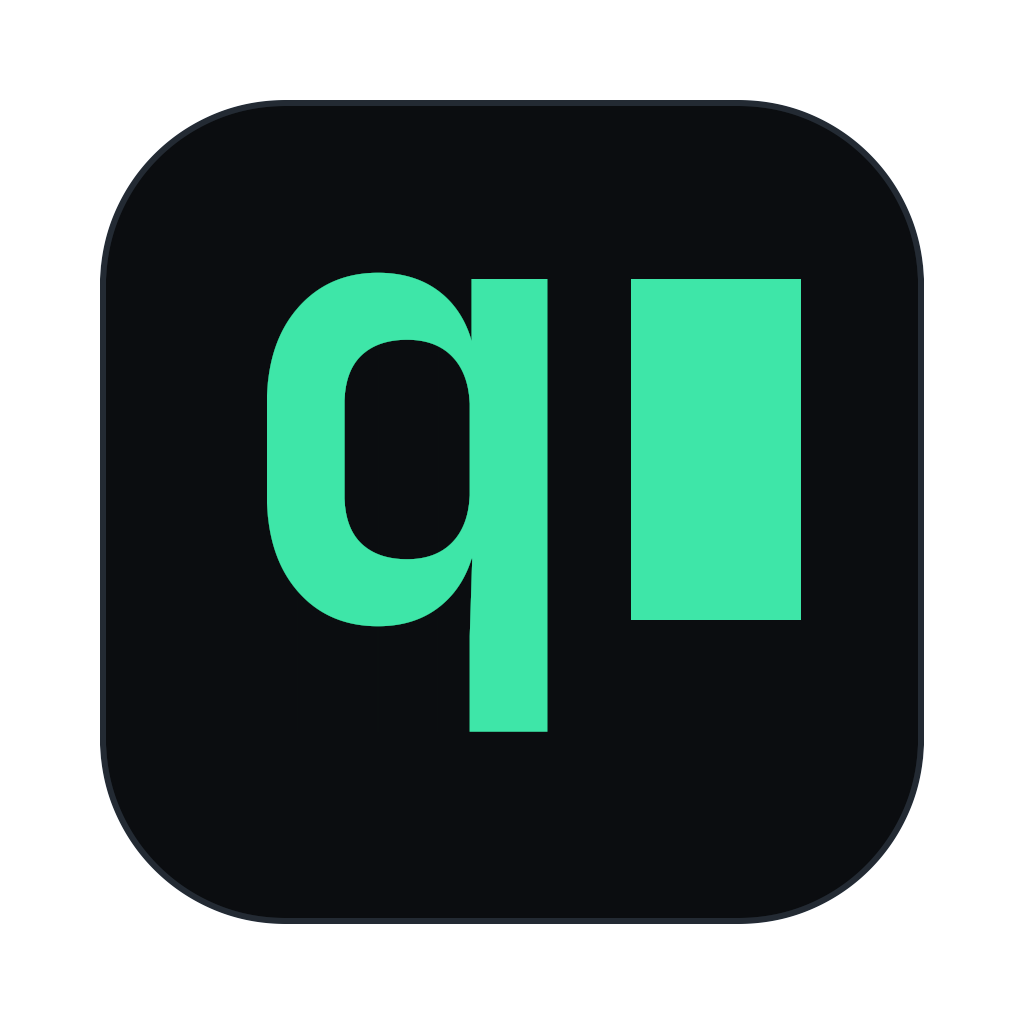
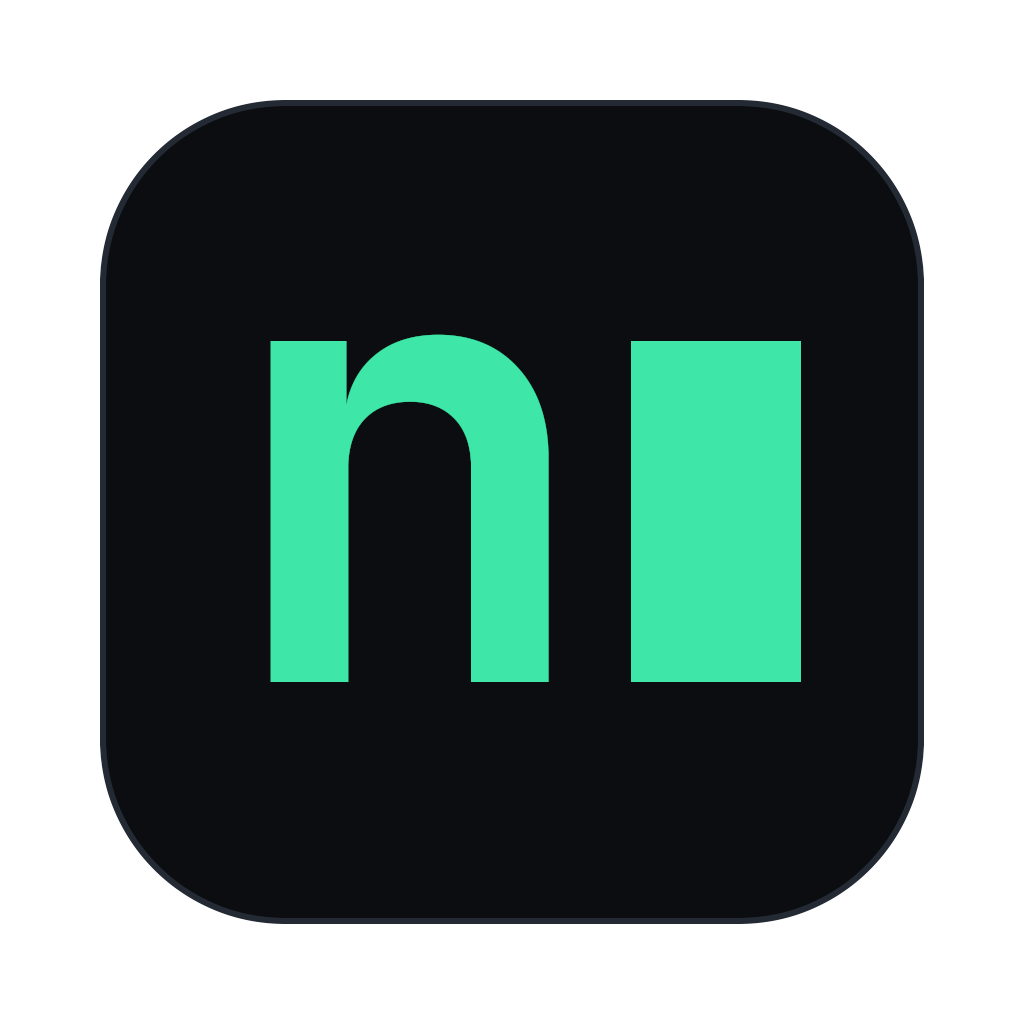
Rename the editor to nib
quod was hard to type and remember. The module, binary, app, release
files, icon and README now use nib, and the last session moves to the
new config folder on first start.

diff --git a/render_test.go b/render_test.go
@@ -15,15 +15,15 @@ import (
 	"gioui.org/unit"
 )
 
-// TestRender draws the editor offscreen. Set QUOD_SHOT=out.png to save it,
-// QUOD_FILE to pick the file or folder and QUOD_LINE to put the cursor on a
-// line. QUOD_FINDER=query opens the file finder, QUOD_INFO=1 the properties,
-// QUOD_GREP=query the folder search and QUOD_REPLACE=old:new the replace
+// TestRender draws the editor offscreen. Set NIB_SHOT=out.png to save it,
+// NIB_FILE to pick the file or folder and NIB_LINE to put the cursor on a
+// line. NIB_FINDER=query opens the file finder, NIB_INFO=1 the properties,
+// NIB_GREP=query the folder search and NIB_REPLACE=old:new the replace
 // prompt.
 func TestRender(t *testing.T) {
-	out := os.Getenv("QUOD_SHOT")
+	out := os.Getenv("NIB_SHOT")
 	if out == "" {
-		t.Skip("set QUOD_SHOT to render a screenshot")
+		t.Skip("set NIB_SHOT to render a screenshot")
 	}
 	const w, h = 1400, 900
 	win, err := headless.NewWindow(w, h)
@@ -32,11 +32,11 @@ func TestRender(t *testing.T) {
 	}
 	defer win.Release()
 
-	e := NewEditor(orDefault(os.Getenv("QUOD_FILE"), "editor.go"))
+	e := NewEditor(orDefault(os.Getenv("NIB_FILE"), "editor.go"))
 	e.focused = true
 	e.cursor = Pos{98, 12}
 	e.anchor = Pos{96, 2}
-	if n, err := strconv.Atoi(os.Getenv("QUOD_LINE")); err == nil {
+	if n, err := strconv.Atoi(os.Getenv("NIB_LINE")); err == nil {
 		e.cursor, e.anchor = Pos{n - 1, 0}, Pos{n - 1, 0}
 	}
 	e.followCursor = true
@@ -56,7 +56,7 @@ func TestRender(t *testing.T) {
 		e.Layout(gtx)
 		t.Logf("layout: %v", time.Since(start))
 	}
-	if q, ok := os.LookupEnv("QUOD_FINDER"); ok {
+	if q, ok := os.LookupEnv("NIB_FINDER"); ok {
 		e.openFinder()
 		for {
 			if _, walking := e.finder.poll(); !walking {
@@ -68,18 +68,18 @@ func TestRender(t *testing.T) {
 		ops.Reset()
 		e.Layout(gtx)
 	}
-	if os.Getenv("QUOD_INFO") != "" {
+	if os.Getenv("NIB_INFO") != "" {
 		e.info = true
 		ops.Reset()
 		e.Layout(gtx)
 	}
-	if os.Getenv("QUOD_FIND") != "" {
+	if os.Getenv("NIB_FIND") != "" {
 		e.openPrompt(promptFind, "")
-		e.setInput(os.Getenv("QUOD_FIND"))
+		e.setInput(os.Getenv("NIB_FIND"))
 		ops.Reset()
 		e.Layout(gtx)
 	}
-	if q, ok := os.LookupEnv("QUOD_GREP"); ok {
+	if q, ok := os.LookupEnv("NIB_GREP"); ok {
 		e.openGrep()
 		e.setInput(q)
 		for {
@@ -91,7 +91,7 @@ func TestRender(t *testing.T) {
 		ops.Reset()
 		e.Layout(gtx)
 	}
-	if r := os.Getenv("QUOD_REPLACE"); r != "" {
+	if r := os.Getenv("NIB_REPLACE"); r != "" {
 		q, with, _ := strings.Cut(r, ":")
 		e.openReplace()
 		e.setInput(q)

diff --git a/icon_test.go b/icon_test.go
@@ -17,11 +17,11 @@ import (
 	"gioui.org/widget"
 )
 
-// TestIcon draws the app icon. Set QUOD_ICON=appicon.png to write it.
+// TestIcon draws the app icon. Set NIB_ICON=appicon.png to write it.
 func TestIcon(t *testing.T) {
-	out := os.Getenv("QUOD_ICON")
+	out := os.Getenv("NIB_ICON")
 	if out == "" {
-		t.Skip("set QUOD_ICON to draw the icon")
+		t.Skip("set NIB_ICON to draw the icon")
 	}
 	const size = 1024
 	win, err := headless.NewWindow(size, size)
@@ -42,7 +42,7 @@ func TestIcon(t *testing.T) {
 	paint.FillShape(gtx.Ops, rgb(0x232a33), clip.UniformRRect(body, radius).Op(gtx.Ops))
 	paint.FillShape(gtx.Ops, colBg, clip.UniformRRect(body.Inset(6), radius-6).Op(gtx.Ops))
 
-	// A bold "q" and a block cursor after it.
+	// A bold "n" and a block cursor after it.
 	shaper := text.NewShaper(text.NoSystemFonts(), text.WithCollection(fontCollection()))
 	f := font.Font{Typeface: typeface, Weight: font.Bold}
 	m := op.Record(gtx.Ops)
@@ -51,12 +51,12 @@ func TestIcon(t *testing.T) {
 	g := gtx
 	g.Constraints = layout.Constraints{Max: image.Pt(size, size)}
 	m = op.Record(gtx.Ops)
-	dims := widget.Label{MaxLines: 1}.Layout(g, shaper, f, 620, "q", col)
+	dims := widget.Label{MaxLines: 1}.Layout(g, shaper, f, 620, "n", col)
 	call := m.Stop()
-	// Center the mark from the top of the "q" to the end of its tail; the
-	// cursor runs from the x-height to the baseline.
-	const xHeight, descent, curW, gap = 0.55 * 620, 0.2 * 620, 170, 36
-	base := size/2 + int(xHeight-descent)/2
+	// Center the mark between the x-height and the baseline, where the
+	// cursor runs too.
+	const xHeight, curW, gap = 0.55 * 620, 170, 36
+	base := size/2 + int(xHeight)/2
 	x := (size - dims.Size.X - gap - curW) / 2
 	st := op.Offset(image.Pt(x, base-(dims.Size.Y-dims.Baseline))).Push(gtx.Ops)
 	call.Add(gtx.Ops)

diff --git a/quit_darwin.go b/quit_darwin.go
@@ -5,21 +5,21 @@ package main
 #import <AppKit/AppKit.h>
 #include <objc/runtime.h>
 
-extern int quodMayQuit(void);
+extern int nibMayQuit(void);
 
-static NSApplicationTerminateReply quodShouldTerminate(id self, SEL _cmd, NSApplication *app) {
-	return quodMayQuit() ? NSTerminateNow : NSTerminateCancel;
+static NSApplicationTerminateReply nibShouldTerminate(id self, SEL _cmd, NSApplication *app) {
+	return nibMayQuit() ? NSTerminateNow : NSTerminateCancel;
 }
 
-// quodHookQuit adds applicationShouldTerminate: to Gio's app delegate.
-static void quodHookQuit(void) {
+// nibHookQuit adds applicationShouldTerminate: to Gio's app delegate.
+static void nibHookQuit(void) {
 	Class c = objc_getClass("GioAppDelegate");
 	if (c != Nil) {
-		class_addMethod(c, @selector(applicationShouldTerminate:), (IMP)quodShouldTerminate, "Q@:@");
+		class_addMethod(c, @selector(applicationShouldTerminate:), (IMP)nibShouldTerminate, "Q@:@");
 	}
 }
 
-static int quodQuitHooked(void) {
+static int nibQuitHooked(void) {
 	Class c = objc_getClass("GioAppDelegate");
 	return c != Nil && class_respondsToSelector(c, @selector(applicationShouldTerminate:));
 }
@@ -28,7 +28,7 @@ import "C"
 
 // ⌘Q goes through the app menu, which quits without asking the window, so
 // the app delegate is taught to ask first.
-func init() { C.quodHookQuit() }
+func init() { C.nibHookQuit() }
 
 // quitHooked reports whether the app delegate asks before quitting.
-func quitHooked() bool { return C.quodQuitHooked() != 0 }
+func quitHooked() bool { return C.nibQuitHooked() != 0 }

diff --git a/main.go b/main.go
@@ -1,4 +1,4 @@
-// Command quod is a small, fast, GPU-rendered text editor.
+// Command nib is a small, fast, GPU-rendered text editor.
 package main
 
 import (
@@ -45,15 +45,15 @@ func versionString() string {
 		return version
 	}
 	if bi, ok := debug.ReadBuildInfo(); ok && bi.Main.Version != "" && bi.Main.Version != "(devel)" {
-		return bi.Main.Version // go install github.com/hipjim/quod@v1.2.3
+		return bi.Main.Version // go install github.com/hipjim/nib@v1.2.3
 	}
 	return "dev"
 }
 
-const usage = `usage: quod [file or folder]
+const usage = `usage: nib [file or folder]
 
-With no argument, quod reopens the files of the last session.
-See https://github.com/hipjim/quod for the keys.
+With no argument, nib reopens the files of the last session.
+See https://github.com/hipjim/nib for the keys.
 `
 
 func main() {
@@ -62,7 +62,7 @@ func main() {
 		path = os.Args[1]
 		switch path {
 		case "-v", "-version", "--version":
-			fmt.Println("quod", versionString())
+			fmt.Println("nib", versionString())
 			return
 		case "-h", "-help", "--help":
 			fmt.Print(usage)
@@ -71,7 +71,7 @@ func main() {
 	}
 	go func() {
 		w := new(app.Window)
-		w.Option(app.Title("quod"), app.Size(unit.Dp(1000), unit.Dp(700)))
+		w.Option(app.Title("nib"), app.Size(unit.Dp(1000), unit.Dp(700)))
 		if err := run(w, path); err != nil {
 			fmt.Fprintln(os.Stderr, err)
 			os.Exit(1)

diff --git a/terminal.go b/terminal.go
@@ -9,7 +9,7 @@ import (
 	"strings"
 )
 
-// macTerminals maps $TERM_PROGRAM to the app to open, so quod opens the
+// macTerminals maps $TERM_PROGRAM to the app to open, so nib opens the
 // terminal it was started from.
 var macTerminals = map[string]string{
 	"Apple_Terminal": "Terminal",
@@ -26,10 +26,10 @@ var linuxTerminals = []string{
 }
 
 // terminalCmd returns the command that opens a terminal window in dir.
-// $QUOD_TERMINAL overrides the choice: an app name on macOS, a command
+// $NIB_TERMINAL overrides the choice: an app name on macOS, a command
 // elsewhere.
 func terminalCmd(dir string) (*exec.Cmd, error) {
-	custom := os.Getenv("QUOD_TERMINAL")
+	custom := os.Getenv("NIB_TERMINAL")
 	var cmd *exec.Cmd
 	switch runtime.GOOS {
 	case "darwin":
@@ -65,7 +65,7 @@ func terminalCmd(dir string) (*exec.Cmd, error) {
 			}
 		}
 		if name == "" {
-			return nil, errors.New("no terminal found; set $QUOD_TERMINAL")
+			return nil, errors.New("no terminal found; set $NIB_TERMINAL")
 		}
 		f := strings.Fields(name)
 		cmd = exec.Command(f[0], f[1:]...)

diff --git a/finder_test.go b/finder_test.go
@@ -141,11 +141,11 @@ func TestFileProps(t *testing.T) {
 	}
 }
 
-// BenchmarkRank walks QUOD_ROOT (default: this folder) and ranks a query.
+// BenchmarkRank walks NIB_ROOT (default: this folder) and ranks a query.
 func BenchmarkRank(b *testing.B) {
 	var f finder
 	start := time.Now()
-	f.start(orDefault(os.Getenv("QUOD_ROOT"), "."))
+	f.start(orDefault(os.Getenv("NIB_ROOT"), "."))
 	for {
 		if _, walking := f.poll(); !walking {
 			break
@@ -153,7 +153,7 @@ func BenchmarkRank(b *testing.B) {
 		time.Sleep(time.Millisecond)
 	}
 	b.Logf("walked %d files in %v", len(f.paths), time.Since(start))
-	q := orDefault(os.Getenv("QUOD_QUERY"), "edgo")
+	q := orDefault(os.Getenv("NIB_QUERY"), "edgo")
 	b.Run("full", func(b *testing.B) {
 		for b.Loop() {
 			f.last, f.query = "", q

diff --git a/session.go b/session.go
@@ -32,7 +32,11 @@ func sessionFile() string {
 	if err != nil {
 		return ""
 	}
-	return filepath.Join(dir, "quod", "session.json")
+	p := filepath.Join(dir, "nib", "session.json")
+	if _, err := os.Stat(p); os.IsNotExist(err) {
+		os.Rename(filepath.Join(dir, "quod"), filepath.Join(dir, "nib")) // the old name
+	}
+	return p
 }
 
 // saveSession writes the open documents and where they were left, at most
@@ -79,7 +83,7 @@ func readSession(path string) (session, bool) {
 }
 
 // keepSession carries the last session's documents into the next one
-// without opening them, when quod was started on a file.
+// without opening them, when nib was started on a file.
 func (e *Editor) keepSession() {
 	if s, ok := readSession(e.sessionPath); ok {
 		e.keep = s.Docs

diff --git a/buffer_test.go b/buffer_test.go
@@ -132,11 +132,11 @@ func TestIndexFold(t *testing.T) {
 	}
 }
 
-// loadAll loads QUOD_FILE and waits for indexing to finish.
+// loadAll loads NIB_FILE and waits for indexing to finish.
 func loadAll(b *testing.B) *Buffer {
-	path := os.Getenv("QUOD_FILE")
+	path := os.Getenv("NIB_FILE")
 	if path == "" {
-		b.Skip("set QUOD_FILE")
+		b.Skip("set NIB_FILE")
 	}
 	buf, err := Load(path)
 	if err != nil {
@@ -148,7 +148,7 @@ func loadAll(b *testing.B) *Buffer {
 	return buf
 }
 
-// BenchmarkFindBig searches the whole of QUOD_FILE for text that is not
+// BenchmarkFindBig searches the whole of NIB_FILE for text that is not
 // there, the worst case.
 func BenchmarkFindBig(b *testing.B) {
 	buf := loadAll(b)

diff --git a/editor_test.go b/editor_test.go
@@ -130,9 +130,9 @@ func TestTextHelpers(t *testing.T) {
 }
 
 func BenchmarkLoadBig(b *testing.B) {
-	path := os.Getenv("QUOD_FILE")
+	path := os.Getenv("NIB_FILE")
 	if path == "" {
-		b.Skip("set QUOD_FILE")
+		b.Skip("set NIB_FILE")
 	}
 	for b.Loop() {
 		if _, err := Load(path); err != nil {
@@ -142,9 +142,9 @@ func BenchmarkLoadBig(b *testing.B) {
 }
 
 func BenchmarkTypeInBig(b *testing.B) {
-	path := os.Getenv("QUOD_FILE")
+	path := os.Getenv("NIB_FILE")
 	if path == "" {
-		b.Skip("set QUOD_FILE")
+		b.Skip("set NIB_FILE")
 	}
 	buf, _ := Load(path)
 	e := &Editor{doc: newDoc("", buf)}

diff --git a/terminal_test.go b/terminal_test.go
@@ -9,14 +9,14 @@ import (
 func TestTerminalCmd(t *testing.T) {
 	dir := t.TempDir()
 	t.Setenv("TERM_PROGRAM", "ghostty")
-	t.Setenv("QUOD_TERMINAL", "")
+	t.Setenv("NIB_TERMINAL", "")
 	cmd, err := terminalCmd(dir)
 	if runtime.GOOS == "darwin" {
 		if err != nil || !slices.Equal(cmd.Args, []string{"open", "-a", "Ghostty", dir}) {
 			t.Fatalf("got %v %v", cmd, err)
 		}
 	}
-	t.Setenv("QUOD_TERMINAL", "myterm --flag")
+	t.Setenv("NIB_TERMINAL", "myterm --flag")
 	cmd, err = terminalCmd(dir)
 	if err != nil || cmd.Dir != dir {
 		t.Fatalf("got %v %v", cmd, err)

diff --git a/editor.go b/editor.go
@@ -1566,7 +1566,7 @@ func (e *Editor) drawStatus(gtx layout.Context, r image.Rectangle) {
 		return
 	}
 
-	const appName = "quod"
+	const appName = "nib"
 	e.label(gtx, x, y, appName, colAccent)
 	x += int(float32(len(appName)+1) * cw)
 	name := "[scratch]"
@@ -1615,9 +1615,9 @@ func shortPath(p string) string {
 }
 
 func (e *Editor) updateTitle() {
-	t := "quod"
+	t := "nib"
 	if e.path != "" {
-		t = filepath.Base(e.path) + " — quod"
+		t = filepath.Base(e.path) + " — nib"
 	}
 	if e.buf.Dirty() {
 		t = "● " + t

diff --git a/highlight_test.go b/highlight_test.go
@@ -82,9 +82,9 @@ func TestHighlighterState(t *testing.T) {
 	}
 }
 
-// BenchmarkScan measures highlighting a file (QUOD_FILE, default sqlite3.c).
+// BenchmarkScan measures highlighting a file (NIB_FILE, default sqlite3.c).
 func BenchmarkScan(b *testing.B) {
-	path := orDefault(os.Getenv("QUOD_FILE"), "samples/sqlite3.c")
+	path := orDefault(os.Getenv("NIB_FILE"), "samples/sqlite3.c")
 	data, err := os.ReadFile(path)
 	if err != nil {
 		b.Skip(err)
